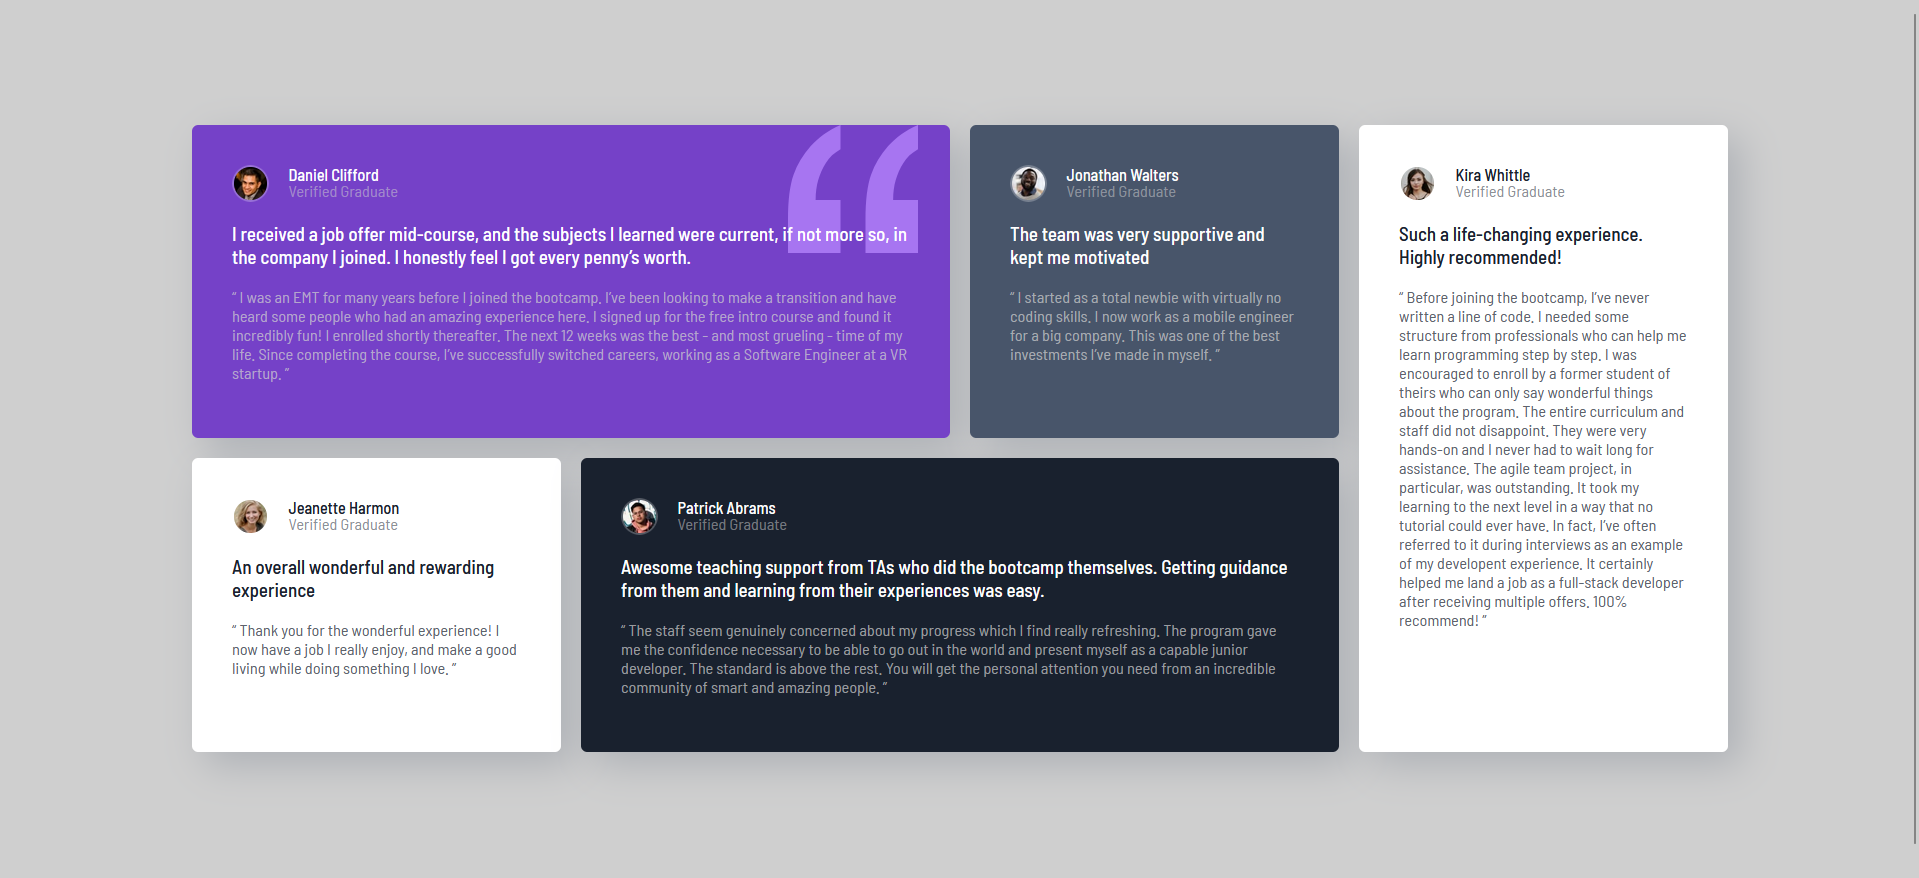
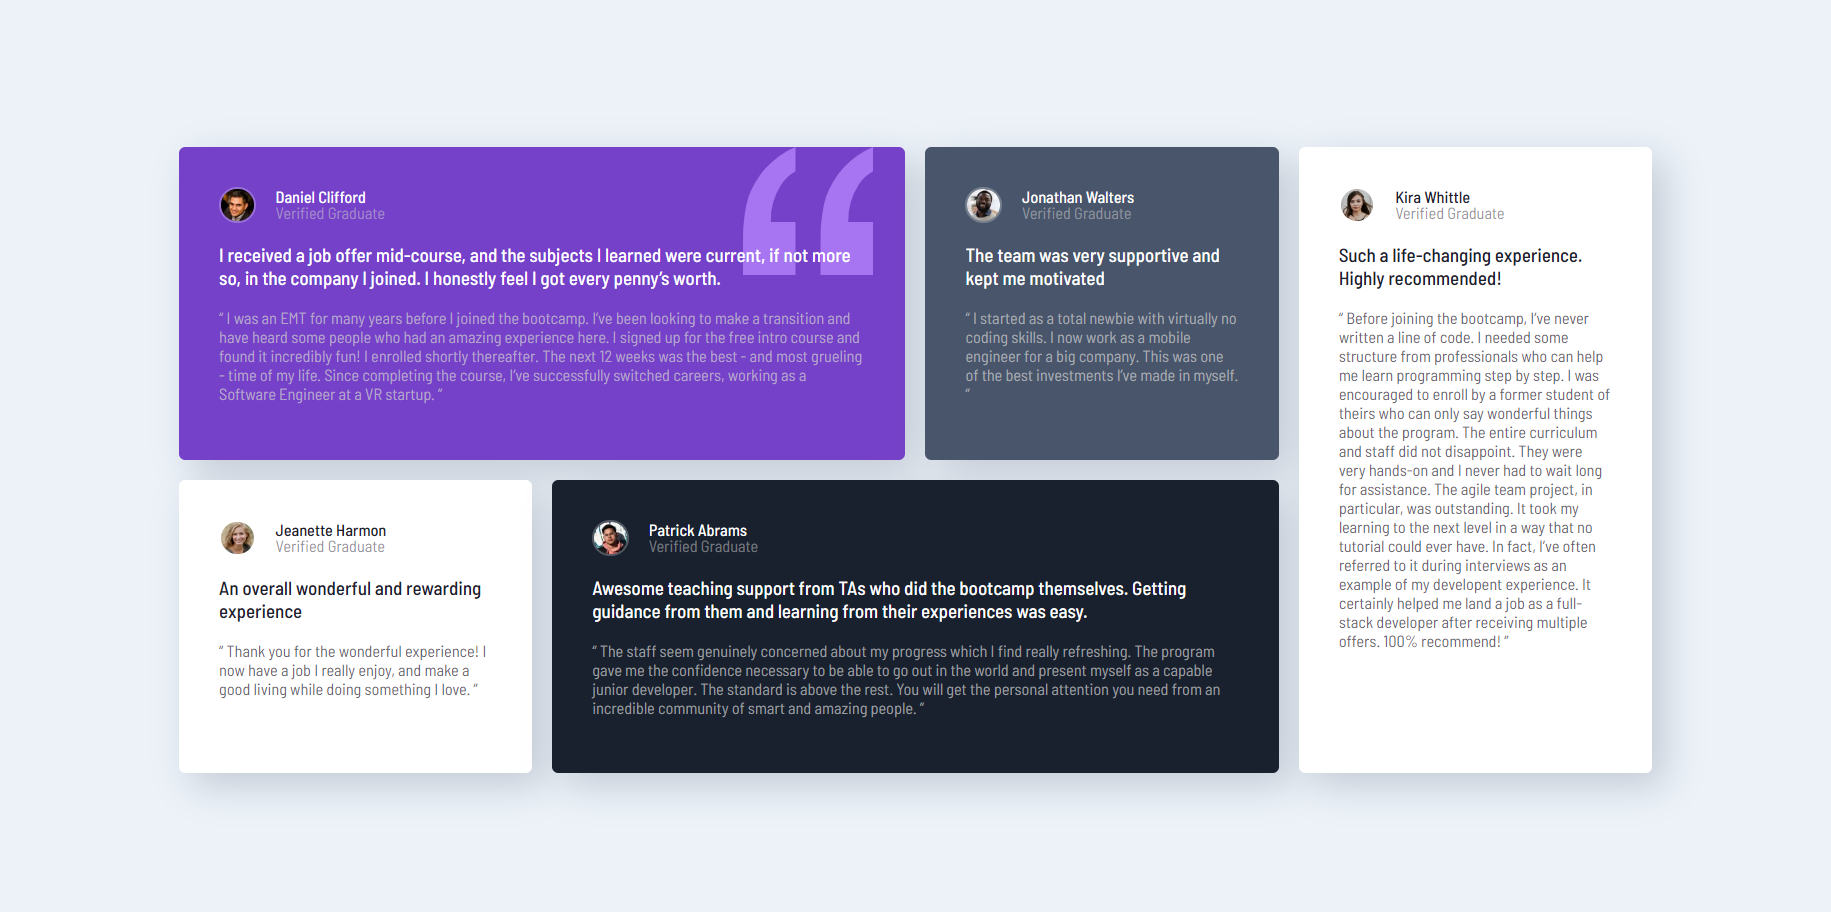
oops, wrong background color

diff --git a/css/styles.css b/css/styles.css
@@ -4,7 +4,7 @@ body{
     min-height: 100vh;
     margin: 0;
     box-sizing: border-box;
-    background-color: hsl(0, 0%, 81%);
+    background-color: hsl(210, 46%, 95%);
     color: white;
     font-size: 13px;
     font-family: "Barlow Semi Condensed";
